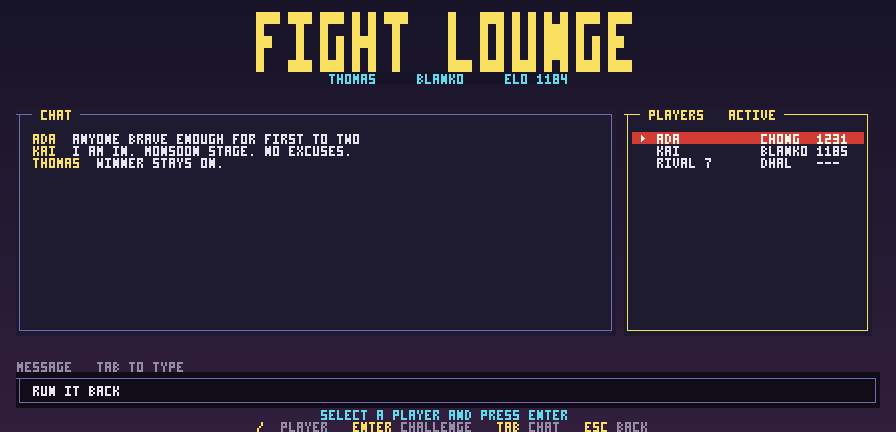
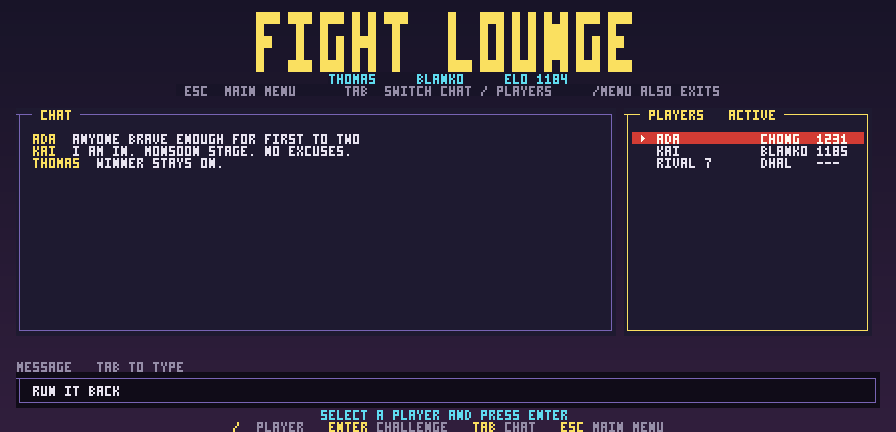
Boot into the main menu and clarify lounge exits

diff --git a/src/navigation-test.ts b/src/navigation-test.ts
@@ -1,0 +1,60 @@
+// Regression for SSH terminals that submit Enter as CRLF: confirming a handle
+// must stop at the main menu, never bleed through into the lounge. Also proves
+// both advertised lounge exits over a real SSH session.
+process.env.SF_DB = '/tmp/sf-navigation-test.db';
+import ssh2 from 'ssh2';
+import { unlinkSync } from 'fs';
+
+try { unlinkSync(process.env.SF_DB); } catch { /* fresh */ }
+const PORT = 22996;
+const { startServer } = await import('./net/ssh-server.js');
+const server = startServer(PORT, '127.0.0.1', 'keys/host.key');
+const sleep = (ms: number) => new Promise((resolve) => setTimeout(resolve, ms));
+const waitFor = async (check: () => boolean, timeout = 4000): Promise<boolean> => {
+  const deadline = Date.now() + timeout;
+  while (Date.now() < deadline) { if (check()) return true; await sleep(40); }
+  return check();
+};
+
+let transcript = '';
+const conn = new ssh2.Client();
+const stream = await new Promise<any>((resolve, reject) => {
+  conn.on('ready', () => conn.shell({ term: 'xterm', cols: 112, rows: 36 }, (error, shell) => {
+    if (error) return reject(error);
+    shell.on('data', (data: Buffer) => { transcript += data.toString('utf8'); });
+    resolve(shell);
+  }));
+  conn.on('error', reject);
+  conn.connect({ host: '127.0.0.1', port: PORT, username: 'navigation', password: 'x', hostVerifier: () => true });
+});
+
+await sleep(200);
+stream.write('NAVTEST\r\n');
+const mainMenuAfterCrlf = await waitFor(() => transcript.includes('MAIN MENU'));
+await sleep(180);
+const didNotEnterLounge = !transcript.includes('/MENU ALSO EXITS');
+
+const loungeStart = transcript.length;
+stream.write('s\r');
+const loungeOpened = await waitFor(() => transcript.slice(loungeStart).includes('/MENU ALSO EXITS'));
+const exitIsVisible = await waitFor(() => transcript.slice(loungeStart).includes('[ESC] MAIN MENU'));
+stream.write('\x1b');
+const escapeStart = transcript.length;
+const escapeReturned = await waitFor(() => transcript.slice(escapeStart).includes('MAIN MENU'));
+
+await sleep(150);
+const secondLoungeStart = transcript.length;
+stream.write('s\r');
+await waitFor(() => transcript.slice(secondLoungeStart).includes('/MENU ALSO EXITS'));
+const commandStart = transcript.length;
+stream.write('/menu\r');
+const commandReturned = await waitFor(() => transcript.slice(commandStart).includes('MAIN MENU'));
+
+conn.end();
+const checks = { mainMenuAfterCrlf, didNotEnterLounge, loungeOpened, exitIsVisible, escapeReturned, commandReturned };
+for (const [name, passed] of Object.entries(checks)) console.log(`${passed ? 'PASS' : 'FAIL'}  ${name}`);
+const ok = Object.values(checks).every(Boolean);
+console.log(ok ? 'NAVIGATION TEST: PASS' : 'NAVIGATION TEST: FAIL');
+await new Promise<void>((resolve) => server.close(() => resolve()));
+await sleep(100);
+process.exit(ok ? 0 : 1);

diff --git a/src/net/session.ts b/src/net/session.ts
@@ -42,6 +42,7 @@ export class Session {
   alive = true;
   private loopTimer: NodeJS.Timeout | null = null;
   private outputBlocked = false;
+  private screenInputGuardUntil = 0;
 
   // ui state
   screen: ScreenName = 'username';
@@ -139,6 +140,7 @@ export class Session {
     this.menuIndex = 0;
     this.errorMsg = '';
     this.prevFrame = null;
+    if (previous !== screen) this.screenInputGuardUntil = Date.now() + 120;
     this.write(CLEAR_SCREEN);
     if (screen === 'leaderboard') this.leader = db.leaderboard(10);
     if (previous !== screen) this.trackEvent('screen_view', { from: previous, to: screen });
@@ -147,6 +149,9 @@ export class Session {
   // ---------- input ----------
   private onData(d: Buffer): void {
     if (!this.alive) return;
+    // Some clients split CRLF across packets. Ignore a trailing newline-only
+    // packet immediately after a transition instead of pressing Enter again.
+    if (Date.now() < this.screenInputGuardUntil && /^[\r\n]+$/.test(d.toString('latin1'))) return;
     if (this.helpOpen) { this.helpOpen = false; this.prevFrame = null; return; }
     let data = d;
     // 'v' toggles the pixel renderer (octant <-> half-block) everywhere except
@@ -170,7 +175,10 @@ export class Session {
       if (this.helpOpen) { this.helpOpen = false; this.prevFrame = null; continue; }
       if (key.t === 'help') { this.helpOpen = true; this.prevFrame = null; this.trackEvent('help_opened', { screen: this.screen }); continue; }
       if (key.t === 'quit') { this.close(); return; }
+      const screenBefore: ScreenName = this.screen;
       SCREENS[this.screen].onKey(this, key);
+      // Never let remaining bytes from one SSH packet operate the next screen.
+      if (this.screen !== screenBefore) break;
     }
   }
 
@@ -316,6 +324,7 @@ export class Session {
   enterLounge(): void {
     this.goTo('lounge');
     SOCIAL.enter(this);
+    this.loungeNotice = 'ESC RETURNS TO MAIN MENU  ·  TAB SWITCHES PANELS';
     this.trackEvent('lounge_joined', { fighter: characterAt(this.cursor).name });
   }
   loungePlayers(): Session[] { return SOCIAL.online(this); }
@@ -323,6 +332,7 @@ export class Session {
   sendChat(): void {
     const message = this.chatBuf.replace(/[^\x20-\x7e]/g, '').trim().slice(0, 140);
     if (!message) return;
+    if (message.toLowerCase() === '/menu') { this.chatBuf = ''; this.goTo('menu'); return; }
     const now = Date.now();
     if (now - this.lastChatAt < 700) { this.loungeNotice = 'SLOW DOWN - ONE MESSAGE AT A TIME'; return; }
     this.lastChatAt = now;

diff --git a/src/screens/lounge.ts b/src/screens/lounge.ts
@@ -44,6 +44,8 @@ export const lounge = {
     } else if (s.outgoingChallenge) {
       f.fill(0, 7, f.cols, 1, THEME.select);
       f.center(7, `CHALLENGE SENT TO ${s.outgoingChallenge.displayName}  ·  X CANCEL`, THEME.selectText, THEME.select, true);
+    } else {
+      f.center(7, '[ESC] MAIN MENU  ·  [TAB] SWITCH CHAT / PLAYERS  ·  /MENU ALSO EXITS', THEME.textDim, THEME.bgTop, true);
     }
 
     const narrow = f.cols < 76;
@@ -79,9 +81,12 @@ export const lounge = {
 
     input(f, 2, f.rows - 6, f.cols - 4, s.chatBuf, { label: s.loungeFocus === 'chat' ? 'MESSAGE · ENTER TO SEND' : 'MESSAGE · TAB TO TYPE', focus: s.loungeFocus === 'chat', frame: s.frame, placeholder: 'say something...' });
     f.center(f.rows - 2, s.loungeNotice.slice(0, Math.max(0, f.cols - 4)), THEME.accent2, THEME.bgBot, true);
-    keyHints(f, f.rows - 1, s.loungeFocus === 'chat'
-      ? [['TYPE', 'CHAT'], ['ENTER', 'SEND'], ['TAB', 'PLAYERS'], ['ESC', 'BACK']]
-      : [['↑/↓', 'PLAYER'], ['ENTER', 'CHALLENGE'], ['TAB', 'CHAT'], ['ESC', 'BACK']]);
+    const hints: [string, string][] = s.incomingChallenge
+      ? [['Y/ENTER', 'ACCEPT'], ['N/ESC', 'DECLINE']]
+      : s.loungeFocus === 'chat'
+        ? [['TYPE', 'CHAT'], ['ENTER', 'SEND'], ['TAB', 'PLAYERS'], ['ESC', 'MAIN MENU']]
+        : [['↑/↓', 'PLAYER'], ['ENTER', 'CHALLENGE'], ['TAB', 'CHAT'], ['ESC', 'MAIN MENU']];
+    keyHints(f, f.rows - 1, hints);
   },
 
   onKey(s: Session, k: Key): void {

diff --git a/src/screens/menu.ts b/src/screens/menu.ts
@@ -6,7 +6,7 @@ import { THEME } from '../ui/theme.js';
 import { characterAt, ROSTER } from '../game/roster.js';
 import * as db from '../db/db.js';
 
-const ITEMS = ['FIGHT LOUNGE  (CHAT + CHALLENGE)', 'QUICK MATCH', 'PRACTICE MODE', 'LEADERBOARD', 'HELP', 'QUIT'];
+const ITEMS = ['QUICK MATCH  (PLAY ONLINE)', 'FIGHT LOUNGE  (CHAT + CHALLENGE)', 'PRACTICE MODE', 'LEADERBOARD', 'HELP', 'QUIT'];
 
 export const menu = {
   render(s: Session, f: Frame): void {
@@ -46,8 +46,8 @@ export const menu = {
     else if (k.t === 'right' || (k.t === 'char' && k.ch.toLowerCase() === 'd')) s.cursor = (s.cursor + 1) % ROSTER.length;
     else if (k.t === 'enter' || (k.t === 'char' && (k.ch === 'j' || k.ch === ' '))) {
       switch (s.menuIndex) {
-        case 0: s.enterLounge(); break;
-        case 1: s.selectMode = 'lobby'; s.goTo('select'); break;
+        case 0: s.selectMode = 'lobby'; s.goTo('select'); break;
+        case 1: s.enterLounge(); break;
         case 2: s.selectMode = 'practice'; s.goTo('select'); break;
         case 3: s.goTo('leaderboard'); break;
         case 4: s.helpOpen = true; s.prevFrame = null; break;

diff --git a/src/ui/key.ts b/src/ui/key.ts
@@ -24,7 +24,13 @@ export function parseKeys(data: Buffer): Key[] {
       keys.push({ t: 'esc' });
       continue;
     }
-    if (c === '\r' || c === '\n') { keys.push({ t: 'enter' }); continue; }
+    if (c === '\r' || c === '\n') {
+      // A number of SSH terminals submit Enter as CRLF. Treat the pair as one
+      // key so the LF cannot activate the next screen after CR confirms one.
+      if (c === '\r' && s[i + 1] === '\n') i++;
+      keys.push({ t: 'enter' });
+      continue;
+    }
     if (c === '\x7f' || c === '\b') { keys.push({ t: 'backspace' }); continue; }
     if (c === '\t') { keys.push({ t: 'tab' }); continue; }
     if (c === '\x03' || c === '\x04') { keys.push({ t: 'quit' }); continue; } // Ctrl-C / Ctrl-D

diff --git a/src/ssh-test.ts b/src/ssh-test.ts
@@ -37,7 +37,6 @@ const send = (c: C, s: string) => c.stream?.write(s);
 async function typeName(c: C, name: string): Promise<void> {
   for (const ch of name) { send(c, ch); await sleep(30); }
   send(c, '\r'); await sleep(150);           // confirm username -> menu
-  send(c, 's'); await sleep(100);             // QUICK MATCH
   send(c, '\r'); await sleep(150);           // JOIN LOBBY -> select
   send(c, '\r'); await sleep(150);           // pick fighter -> lobby/pair
 }

diff --git a/src/social-test.ts b/src/social-test.ts
@@ -30,9 +30,10 @@ async function connect(handle: string): Promise<Client> {
   });
   await sleep(200);
   client.stream.write(handle);
-  client.stream.write('\r');
+  client.stream.write('\r\n');
   await sleep(180);
-  client.stream.write('\r'); // first menu item = lounge
+  client.stream.write('s');
+  client.stream.write('\r'); // second menu item = lounge
   return client;
 }
 
